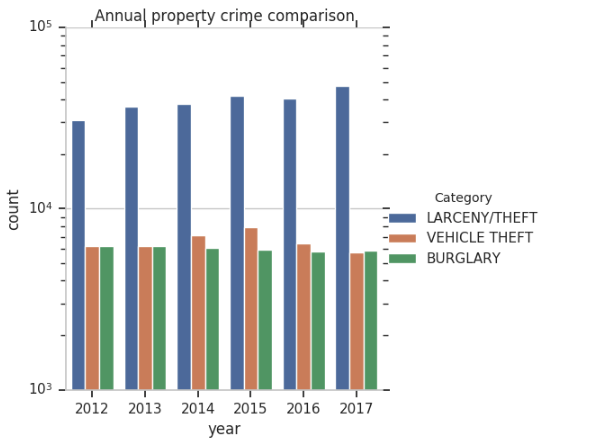
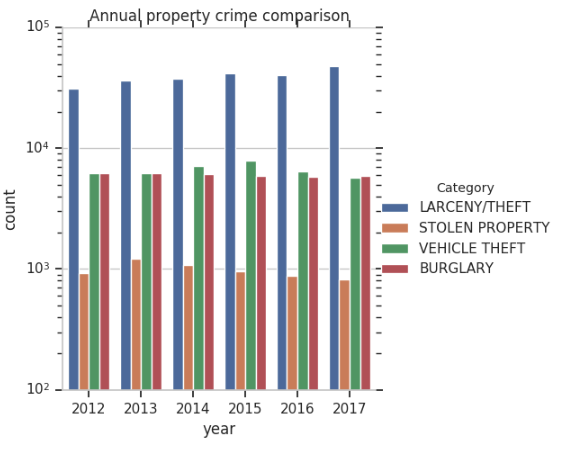
update Readme

diff --git a/README.md b/README.md
@@ -12,10 +12,14 @@ Through this project, I learnt to build a data processing pipeline by Spark SQL 
   <img width="600" height="400" src="https://github.com/butroy/SF_crime_analysis/blob/master/plots/1.crime_by_category.png">
 </p>
 
+Firstly, I explore the data by counting the crimes in different categories. I found most frequent crimes is theft
+
 ### Crime count for different district
 <p align="center">
   <img width="500" height="400" src="https://github.com/butroy/SF_crime_analysis/blob/master/plots/2.crime_by_district.png">
 </p>
+
+Then, I count crimes happened in different districts. I found the top-3 dangerous districts are SOUTHERN, MISSION and NORTHERN. Thus, I think it's necessary to further investigate on these areas
 
 ### Crime count for different time
 
@@ -23,7 +27,11 @@ Through this project, I learnt to build a data processing pipeline by Spark SQL 
   <img width="600" height="400" src="https://github.com/butroy/SF_crime_analysis/blob/master/plots/3.crime_by_time.png">
 </p>
 
-Due to the limited data, the crime happened in 2018 only recorded till May. So the crime counts happened in 2018 is much less than that in other 
+Due to the limited data, the crime happened in 2018 only recorded till May. So the crime counts happened in 2018 is much less than that in other years. 
+
+From counting by different hours, I found that crime happens less frequently in the early morning, and more frequently at dinner time.
+
+From counting by different day of week, I found cirme is more likely to happen during weekends.
 
 ### Trend of Crimes
 
@@ -41,7 +49,14 @@ Let's take 12.15 as an example
   <img width="400" height="400" src="https://github.com/butroy/SF_crime_analysis/blob/master/plots/5.day_analysis.png">
 </p>
 
-### Crime analysis in top-3 danger district
+
+From above plots based on different time period, we can conclude that crimes happened in different time period has differnt counts.
+
+Though 12:00AM~5:59AM has the least number of crimes happened, it unlikely for travelers to visit during that period.
+
+So, I suggest travelers try to arrange their visiting in the morning and visit some indoor sites during afternoon to avoid crimes. 
+
+### Crime analysis in top-3 danger districts
 
 <p align="center">
   <img width="600" height="400" src="https://github.com/butroy/SF_crime_analysis/blob/master/plots/6.Mission.png">
@@ -55,6 +70,9 @@ Let's take 12.15 as an example
   <img width="600" height="400" src="https://github.com/butroy/SF_crime_analysis/blob/master/plots/6.Southern.png">
 </p>
 
+Stolen is very likely to happen at these dangerous areas. Traveler should avoid traveling these areas between 16:00 -- 21:00. And if they travel to these areas, they shouldn't bring too many cash. 
+
+
 ### Violent Crime vs. Property Crime
 
 <p align="center">
@@ -62,8 +80,22 @@ Let's take 12.15 as an example
 </p>
 
 
+For property crimes, we could observe that theft is increasing in recent years, vehicle theft had decreased to some extent. However, Burglary didn't decrease. Police department should think about possible solution for that
+
+
 <p align="center">
   <img width="500" height="300" src="https://github.com/butroy/SF_crime_analysis/blob/master/plots/7.%20Violent_analysis.png">
 </p>
 
-### Spatial analysis
+For violent crimes, sex offense increases and we should inform these to the society so that citizens could learn some skills to proect themselves.
+
+
+## Spatial analysis
+
+Finally, I will do spatial analysis of crimes.
+
+<p align="center">
+  <img width="500" height="300" src="https://github.com/butroy/SF_crime_analysis/blob/master/plots/8.crime_shown.png">
+</p>
+
+
